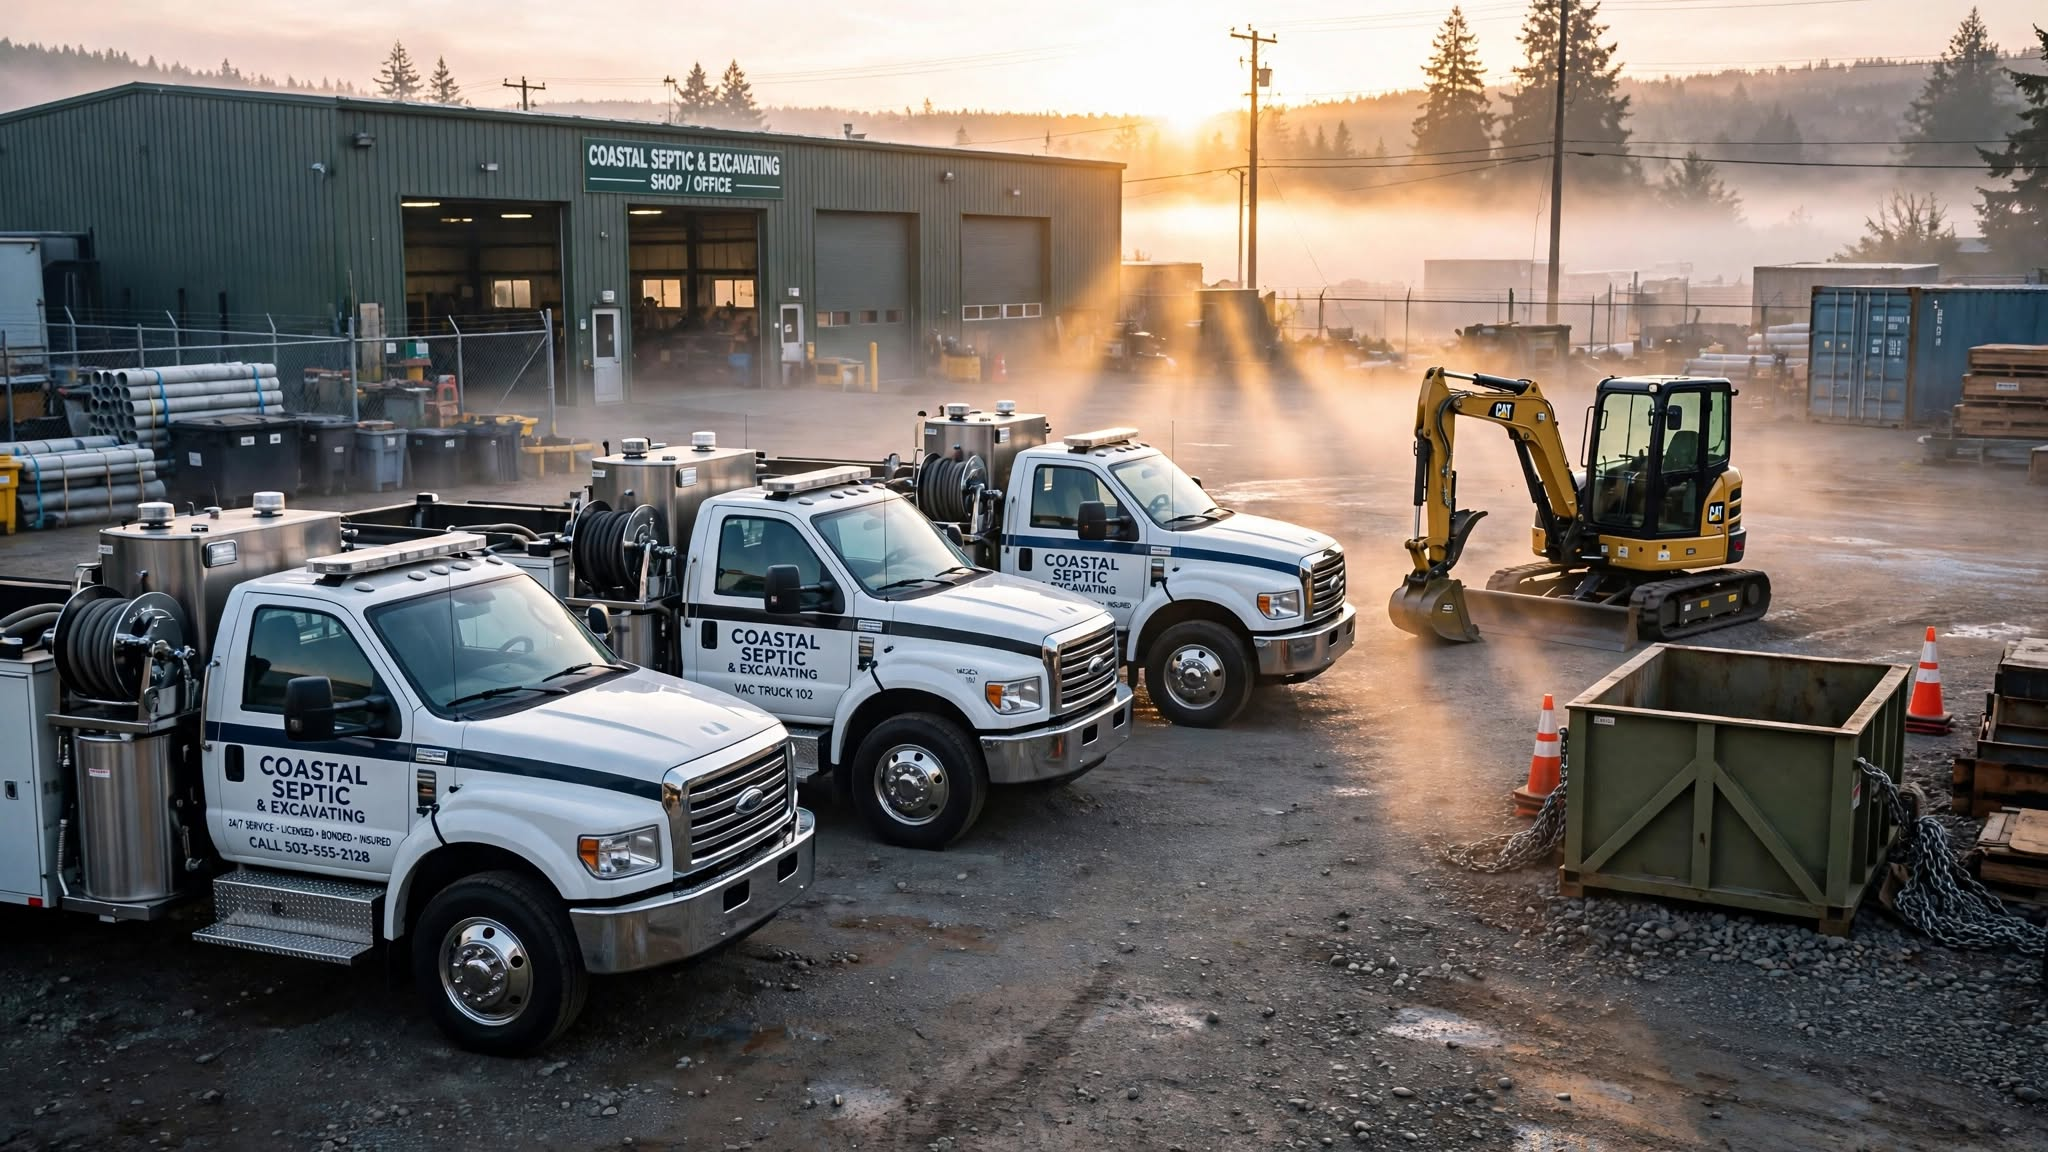
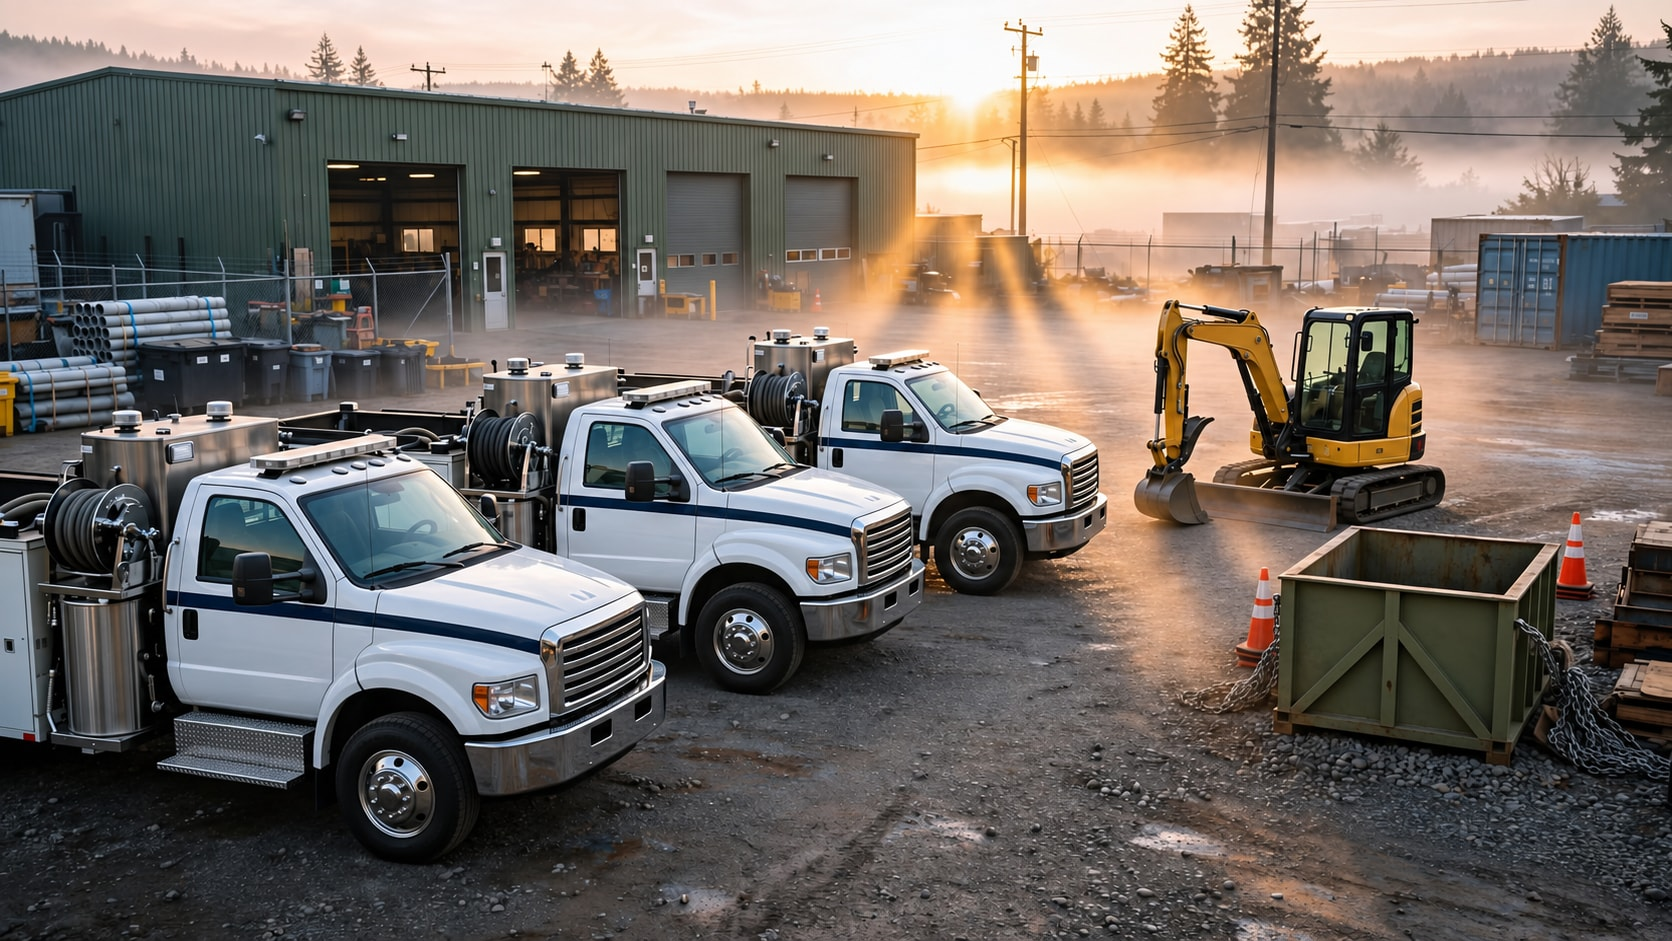
Unify trade dropdowns, remove image branding, and improve form handling

diff --git a/public/contact-forms.js b/public/contact-forms.js
@@ -1,0 +1,61 @@
+document.querySelectorAll('form[data-contact-form], form[data-video-request]').forEach((form) => {
+  const button = form.querySelector('button[type="submit"]');
+  const confirmation = form.dataset.confirmation
+    ? document.getElementById(form.dataset.confirmation)
+    : null;
+  const status = document.createElement('p');
+  status.setAttribute('role', 'status');
+  status.setAttribute('tabindex', '-1');
+  status.hidden = true;
+  form.after(status);
+
+  form.addEventListener('submit', async (event) => {
+    event.preventDefault();
+    if (button.disabled) return;
+
+    const originalLabel = button.textContent;
+    button.disabled = true;
+    button.textContent = 'Sending...';
+    form.setAttribute('aria-busy', 'true');
+    status.hidden = true;
+
+    try {
+      const response = await fetch(form.action, {
+        method: 'POST',
+        body: new FormData(form),
+        headers: { Accept: 'application/json' },
+        signal: AbortSignal.timeout(20000),
+      });
+      if (!response.ok) throw new Error('Request was not accepted');
+
+      form.hidden = true;
+      // Some form layouts set display explicitly, so hide them consistently.
+      form.style.display = 'none';
+      if (confirmation) {
+        confirmation.style.display = 'block';
+        confirmation.setAttribute('tabindex', '-1');
+        confirmation.setAttribute('role', 'status');
+        confirmation.focus();
+      } else {
+        status.textContent = 'Request received. Joe will text you the video link.';
+        status.hidden = false;
+        status.focus();
+      }
+    } catch {
+      status.replaceChildren(
+        document.createTextNode('Your request could not be sent. Please try again, or email '),
+        Object.assign(document.createElement('a'), {
+          href: 'mailto:joe@tankandtrench.com',
+          textContent: 'joe@tankandtrench.com',
+        }),
+        document.createTextNode('.'),
+      );
+      status.hidden = false;
+      status.focus();
+    } finally {
+      button.disabled = false;
+      button.textContent = originalLabel;
+      form.removeAttribute('aria-busy');
+    }
+  });
+});

diff --git a/scripts/build-postcard-results.py b/scripts/build-postcard-results.py
@@ -129,7 +129,7 @@ def build_page(source, code, record):
     video = (
         '<section class="card result-video" id="video"><h2>Get my 5-minute video</h2>'
         '<p>Joe will walk through what came up and what to fix first.</p>'
-        '<form action="https://formspree.io/f/xbjnbqzz" method="post" data-video-request>'
+        f'<form action="{html.escape(CONTACT["formEndpoint"], quote=True)}" method="post" data-video-request>'
         '<input type="hidden" name="source" value="postcard-video-request">'
         f'<input type="hidden" name="company" value="{html.escape(company, quote=True)}">'
         f'<input type="hidden" name="card_code" value="{code.upper()}">'
@@ -139,7 +139,7 @@ def build_page(source, code, record):
         '<button class="btn" type="submit" data-track="video">Get my 5-minute video</button>'
         '</div>'
         '<p class="sms-consent">By submitting, you agree to receive texts from Tank &amp; Trench about your results. Msg &amp; data rates may apply. Reply STOP to opt out. <a href="/privacy/">Privacy Policy</a> &middot; <a href="/terms/">Terms</a></p>'
-        '</form><p role="status" tabindex="-1" hidden></p></section>'
+        '</form></section>'
     )
     source = source[:start] + fixes_panel(record, no_website) + video + source[end:]
     source = source.replace('<details open>', '<details>', 1)
@@ -149,7 +149,7 @@ def build_page(source, code, record):
     source = source.replace(
         '</main></body>',
         f'</main><div class="result-mobile-bar" aria-label="Mobile quick actions">{text_button}{call_button}</div>'
-        '<script src="/postcard-video.js" defer></script></body>',
+        '<script src="/contact-forms.js" defer></script></body>',
     )
     return source
 

diff --git a/README.md b/README.md
@@ -54,8 +54,10 @@ Measurement: **Inbound phone calls and form submissions**
    - Strict `noindex, nofollow, noarchive` on all postcard pages.
 
 3. **Forms & Lead Handling**:
-   - Pre-configured for Formspree (or any form backend service).
-   - Smooth asynchronous submission with instant inline confirmation.
+   - All contact, county availability, free AI check, and postcard video forms use `formEndpoint` in `src/data/contact.json`, including generated archive pages.
+   - The intended recipient is `joe@tankandtrench.com`. Configure and verify that recipient in the Formspree account for form `xbjnbqzz`; changing the email in the site's contact data does not change Formspree notification routing.
+   - `public/contact-forms.js` shows confirmation after Formspree accepts a request. Failed requests retain the visitor's entries and offer retry or direct email without automatically submitting a second time.
+   - To verify delivery, check the Formspree submission log and confirm the matching notification arrives in Joe's inbox.
 
 4. **CallRail Dynamic Number Insertion (DNI)**:
    - Ready for CallRail phone swapping script integration in `BaseLayout.astro`.
